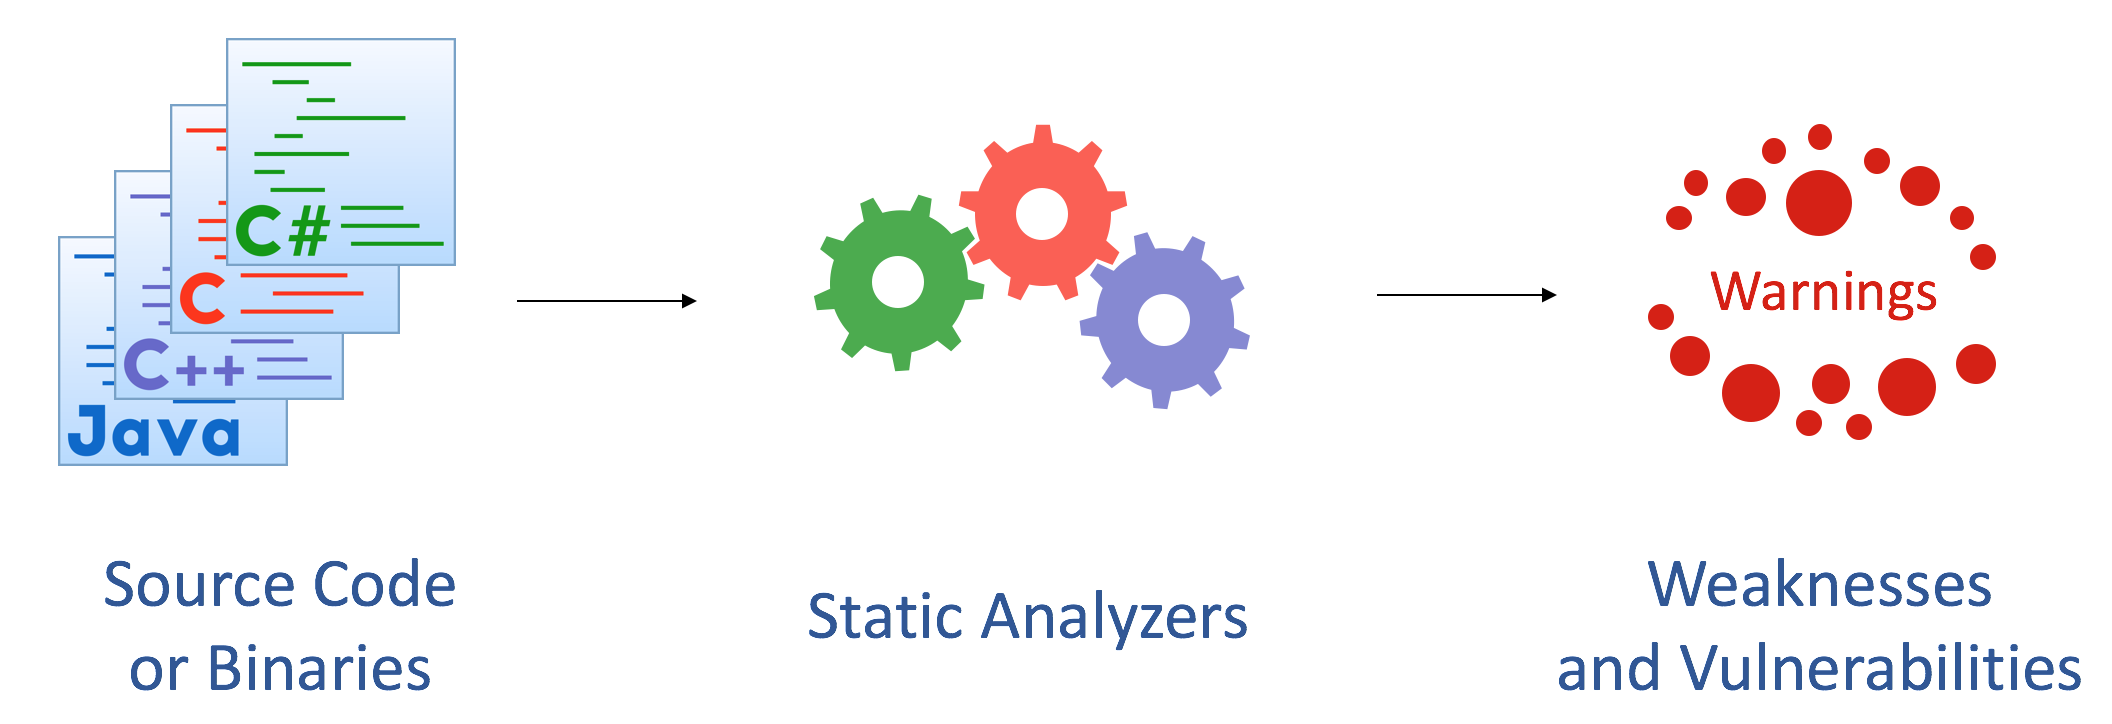
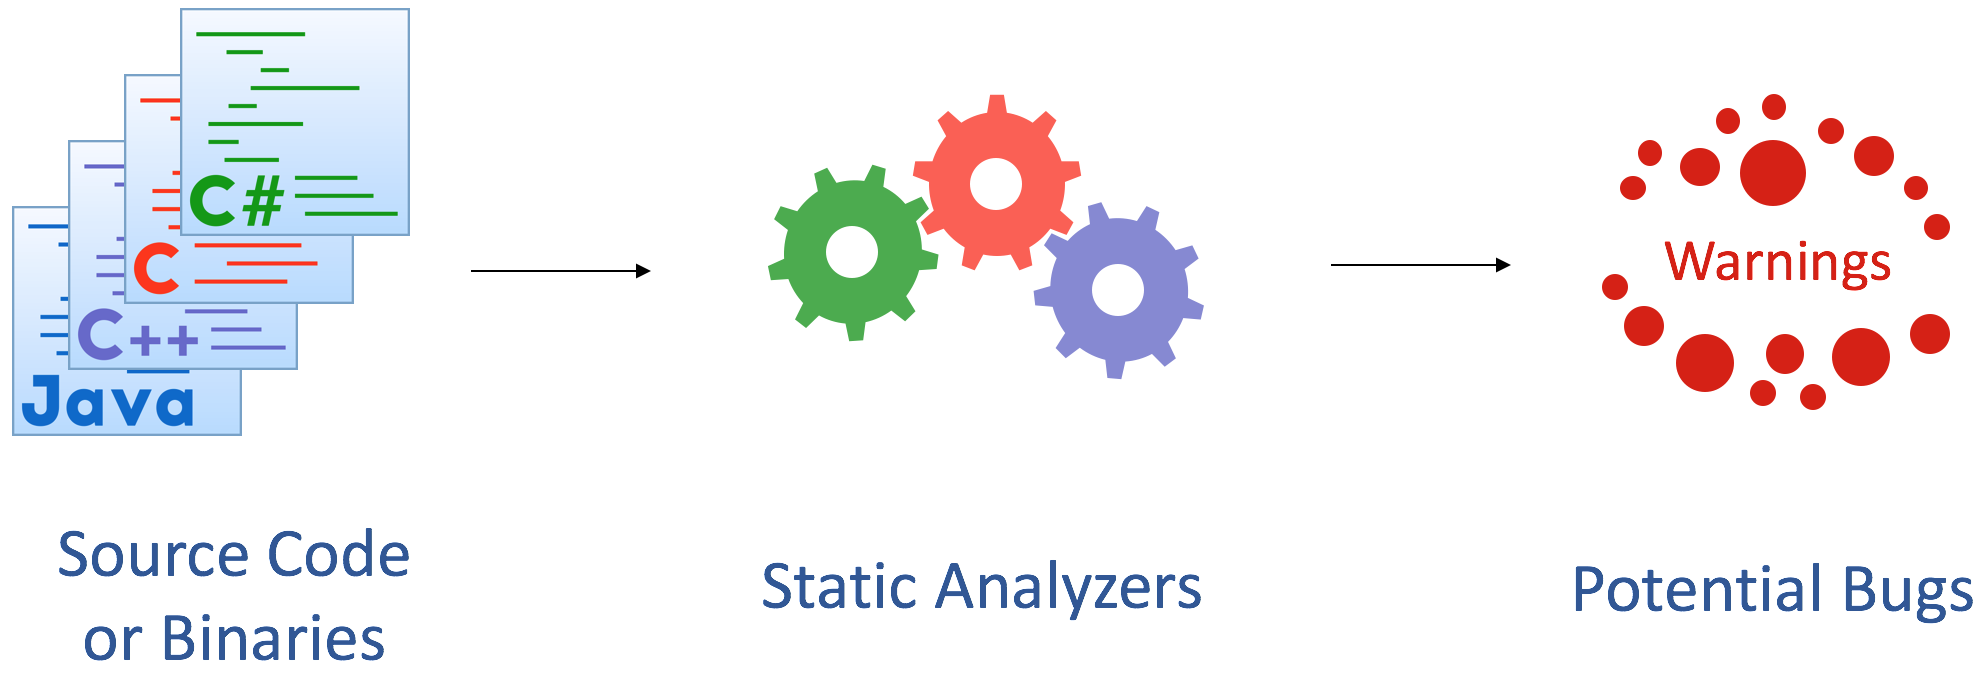
Release #2

diff --git a/main.tex b/main.tex
@@ -29,7 +29,7 @@
 
 % Presentation main information
 \title{Static Analysis Tool Exposition (SATE)\\Test Case Development}
-\date{December 2\textsuperscript{nd}, 2017}
+\date{December 2\textsuperscript{nd}, 2016}
 \author{\textbf{Damien Cupif}}
 \institute{\textbf{\textit{Oral Defense for TELECOM Nancy Master's Degree}}}
 
@@ -106,7 +106,7 @@
     \begin{itemize}
     \setlength\itemsep{0.7em}
     \item \textbf{S}oftware \textbf{A}ssurance \textbf{M}etrics \textbf{A}nd \textbf{T}ool \textbf{E}valuation
-    \item Team of \alert{$\sim10$} software quality experts
+    \item Team of \alert{about 10} software quality experts
     \item A strong focus on software security
     \item \textbf{Define software metrics and design best practices for evaluating software and security tools}
     \end{itemize}
@@ -162,7 +162,7 @@
     \vfill
     \begin{definition}
       \vspace{0.3em}
-      A \textcolor{mLightGreen}{bug} is a design fault, a defect in a system that may or may not lead to its \textbf{unexpected behavior}.
+      A \textcolor{mLightGreen}{bug} is a defect in a system that may or may not lead to its \textbf{unexpected behavior}.
     \end{definition}
     \vfill
   \end{frame}
@@ -187,9 +187,9 @@
       \begin{column}{0.5\textwidth}
         But wait \ldots{} we already have:
         \begin{itemize}
-        \item firewalls,
-        \item antivirus software,
-        \item intrusion detection systems,
+        \item firewalls
+        \item antivirus software
+        \item intrusion detection systems
         \item and more!
         \end{itemize}
         \pause
@@ -248,14 +248,14 @@
   \subsection{Static Analysis Tool Exposition (SATE) Project}
 
   \begin{frame}{Static Analysis Tool Exposition (SATE)}
-    \textbf{Goal:} \alert{Evaluate the performances of static analyzers}\\
+    \textbf{Goal:} \alert{Evaluate the performance of static analyzers}\\
     \pause
     \vfill
     \textbf{Process:}
     \begin{enumerate}
     \item Provide tool makers with \textbf{test suites}
     \item Tool makers run their static analyzers and generate reports
-    \item SAMATE team analyze the reports
+    \item SAMATE team analyzes the reports
     \end{enumerate}
     \pause
     \vfill
@@ -264,14 +264,14 @@
       A \textcolor{mLightGreen}{test suite} is a set of \textbf{test cases}.\\
       \pause
       \vspace{0.3em}
-      A \textcolor{mLightGreen}{test case} is a program flawed with vulnerabilities.
+      A \textcolor{mLightGreen}{test case} is a program with bugs.
     \end{block}
   \end{frame}
 
   \begin{frame}{Desired Characteristics of Test Suites}
     \begin{figure}
       \centering
-      \includegraphics[scale=0.35]{figures/ideal-test-suites}
+      \includegraphics[scale=0.3]{figures/ideal-test-suites}
       \caption{Ideal Test Suites}
     \end{figure}
   \end{frame}
@@ -279,7 +279,7 @@
   \begin{frame}{SATE V Test Suites}
     \begin{figure}
       \centering
-      \includegraphics[scale=0.33]{figures/sate-v-test-suites}
+      \includegraphics[scale=0.3]{figures/sate-v-test-suites}
       \caption{SATE V Solution}
     \end{figure}
   \end{frame}
@@ -304,38 +304,38 @@
       \item \textbf{Statistical Significance} $\rightarrow$ We want a lot of bugs, hundreds of them!
       \end{itemize}
     \pause
-    \item A \textbf{large spectrum of vulnerability types}
+    \item A \textbf{large spectrum of bug types}
     \end{itemize}
   \end{frame}
 
   \begin{frame}{Project Challenges}
-    \begin{block}{Challenge n$^{\circ}$1:}
-      No such test case exist in the nature
+    \begin{block}{Challenge \#1:}
+      No such test case exists in nature
     \end{block}
     \pause
-    \begin{block}{Challenge n$^{\circ}$2:}
+    \begin{block}{Challenge \#2:}
       Developing test cases from scratch is not an option
     \end{block}
     \pause
     \vspace{1.5em}
     \centering
     \begin{LARGE}
-      What about modifying existing source code then?\\ And \alert{insert vulnerabilities} in it?!
+      What about modifying existing source code then?\\ And \alert{insert bugs} in it?!
     \end{LARGE}
   \end{frame}
 
   \begin{frame}{Project Challenges}
-    Injecting vulnerabilities into existing source code \ldots{} is that hard?\\
+    Injecting bugs into existing source code \ldots{} is that hard?\\
     \pause
     \begin{itemize}
     \setlength\itemsep{0.4em}
     \item Getting to know an existing project is \textbf{insanely time consuming}
     \pause
-    \item How would we \textbf{identify vulnerable source code locations} where to inject bugs?
+    \item How would we \textbf{identify vulnerable source code locations} to inject bugs?
     \pause
     \item Realism VS. Modifying the program's behavior
     \pause
-    \item Different vulnerability types, different processes?
+    \item Different bug types, different processes?
     \pause
     \item Ability to \textbf{trigger the bugs}?
     \end{itemize}
@@ -344,10 +344,10 @@
     $\rightarrow$ Challenging task and really {\LARGE\alert{time consuming}} task when done manually
   \end{frame}
   
-  \subsection{Opportunities with Automated Vulnerability Injection Techniques}
+  \subsection{Opportunities with Automated Bug Injection Techniques}
 
-  \begin{frame}{Automated Vulnerability Injection Techniques}
-    Some automated vulnerability injection techniques are starting to emerge:
+  \begin{frame}{Automated Bug Injection Techniques}
+    Some automated bug injection techniques are starting to emerge:
     \begin{itemize}
     \item Automating a \textbf{code mutation} process
     \item Injecting small snippets of flawed code (STONESOUP)
@@ -378,26 +378,26 @@
       \midrule
       Statistical Significance & \textcolor{custom-red}{\ding{55}} & \textcolor{custom-green}{\ding{51}} \\
       \midrule
-      Vulnerability Spectrum & \textcolor{custom-green}{\ding{51}} & \textcolor{custom-red}{\ding{55}} \\
+      Bug Spectrum & \textcolor{custom-green}{\ding{51}} & \textcolor{custom-red}{\ding{55}} \\
       \bottomrule
     \end{tabular}
-    \caption{Manual Vulnerability Injection VS. Automated Vulnerability Injection}
+    \caption{Manual Bug Injection VS. Automated Bug Injection}
     \end{table}
     \pause
     \textbf{Automating part of the process would get us the best of both worlds.}
   \end{frame}
   
-  \subsection{Project Planification}
+  \subsection{Project Plan}
   \begin{frame}{My Action Plan}
     \begin{enumerate}
       \setlength\itemsep{1em}
-      \item Vulnerability addition \textbf{state of the art}
+      \item Bug injection \textbf{state of the art}
       \pause
       \item \textbf{Get familiar} with the chosen technique
       \pause
       \item \textbf{Use it} on potential future test cases
       \pause
-      \item Fasten the process of \textbf{manual vulnerability addition}
+      \item Speed the process of \textbf{manual bug injection}
       \pause
       \item \textbf{Design a process} to produce test suites for SATE VI
     \end{enumerate}
@@ -405,7 +405,7 @@
   % End of section
 
   % Beginning of section
-  \section{A Focus on LAVA, a Large-scale and Automated Vulnerability Addition Software}
+  \section{A Focus on LAVA, a Large-scale and Automated Vulnerability Addition Tool}
 
   \begin{frame}{LAVA Software}
     \begin{columns}
@@ -420,10 +420,10 @@
       \begin{column}{0.75\textwidth}
         \begin{itemize}
         \setlength\itemsep{1em}
-        \item \textbf{L}arge-scale \textbf{A}utomated \textbf{V}ulnerability \textbf{A}ddition \textbf{S}oftware
+        \item \textbf{L}arge-scale \textbf{A}utomated \textbf{V}ulnerability \textbf{A}ddition tool
         \item Developed by the MIT Lincoln Laboratory and the University of New York
-        \item \textbf{Motivation:} Generate \alert{large ground-truth vulnerability corpora} to enable rigorous tool evaluation
-        \item \textbf{How?} Inject vulnerabilities into existing C programs by analyzing the \alert{control flow} and \alert{data flow}
+        \item \textbf{Motivation:} ``Generate \alert{large ground-truth vulnerability corpora} to enable rigorous tool evaluation''
+        \item \textbf{How?} Inject bugs into existing C programs by analyzing the \alert{control flow} and \alert{data flow}
         \end{itemize}
       \end{column}
     \end{columns}
@@ -486,13 +486,13 @@
         \multicolumn{1}{c}{\textcolor{custom-green}{Pros}} & \multicolumn{1}{c}{\textcolor{custom-red}{Cons}} \\
         \midrule
         \textcolor{custom-green}{\ding{51}} Inject a lot of bugs & \textcolor{custom-red}{\ding{55}} Works only for C Programs \\
-        \textcolor{custom-green}{\ding{51}} The most sophisticated so far & \textcolor{custom-red}{\ding{55}} Specific to buffer-overflows vulnerabilities \\
+        \textcolor{custom-green}{\ding{51}} The most sophisticated so far & \textcolor{custom-red}{\ding{55}} Addresses a single bug type \\
         \textcolor{custom-green}{\ding{51}} Very fast method & \textcolor{custom-red}{\ding{55}} Bugs not realistic enough \\
         \textcolor{custom-green}{\ding{51}} Hope to extend it & \textcolor{custom-red}{\ding{55}} Proof of concept more than a real product \\
         \textcolor{custom-green}{\ding{51}} Access to the DUAs and ATPs & \\
         \bottomrule
       \end{tabular}
-      \caption{Reasons To or Not To Use LAVA}
+      \caption{Advantages and Disadvantages of Using LAVA}
     \end{table}
   \end{frame}
   
@@ -522,12 +522,12 @@
     \item Improved the \textbf{LAVA configuration system}
     \item Submitted changes to the LAVA team:
       \begin{itemize}
-        \item Fixed \textbf{bugs}
-        \item Refactoring
-        \item Developed support for \textbf{function pointers}
+        \item \textbf{Fixed} bugs
+        \item \textbf{Refactored} duplicated source code into functions
+        \item \textbf{Implemented} new features
       \end{itemize}
       All were \textcolor{custom-green}{accepted}!
-    \item Designed an SQL request to \alert{use the LAVA database information}
+    \item Designed an SQL query to \alert{use the LAVA database information}
     \end{itemize}
   \end{frame}
 
@@ -546,13 +546,13 @@
   \begin{frame}{Project Results}
     \begin{enumerate}
       \setlength\itemsep{1em}
-      \item[\textcolor{custom-green}{\ding{51}}] Vulnerability addition state of the art
+      \item[\textcolor{custom-green}{\ding{51}}] Bug injection state of the art
       \pause
       \item[\textcolor{custom-green}{\ding{51}}] Get familiar with the chosen technique
       \pause
       \item[\textcolor{mLightBrown}{\ding{51}}] Use it on potential future test cases
       \pause
-      \item[\textcolor{custom-green}{\ding{51}}] Fasten the process of manual vulnerability addition
+      \item[\textcolor{custom-green}{\ding{51}}] Speed the process of manual bug injection
       \pause
       \item[\textcolor{custom-red}{\ding{55}}] Design a process to produce test suites
     \end{enumerate}
@@ -562,7 +562,7 @@
     On the short-term, for SATE VI:
     \begin{itemize}
     \item[\ding{43}] Run LAVA on other test cases
-    \item[\ding{43}] Insert bugs manually using LAVA
+    \item[\ding{43}] Insert bugs in a semi-automated way using LAVA
     \item[\ding{43}] JAVA test suite (STONESOUP?)
     \end{itemize}
     \pause
